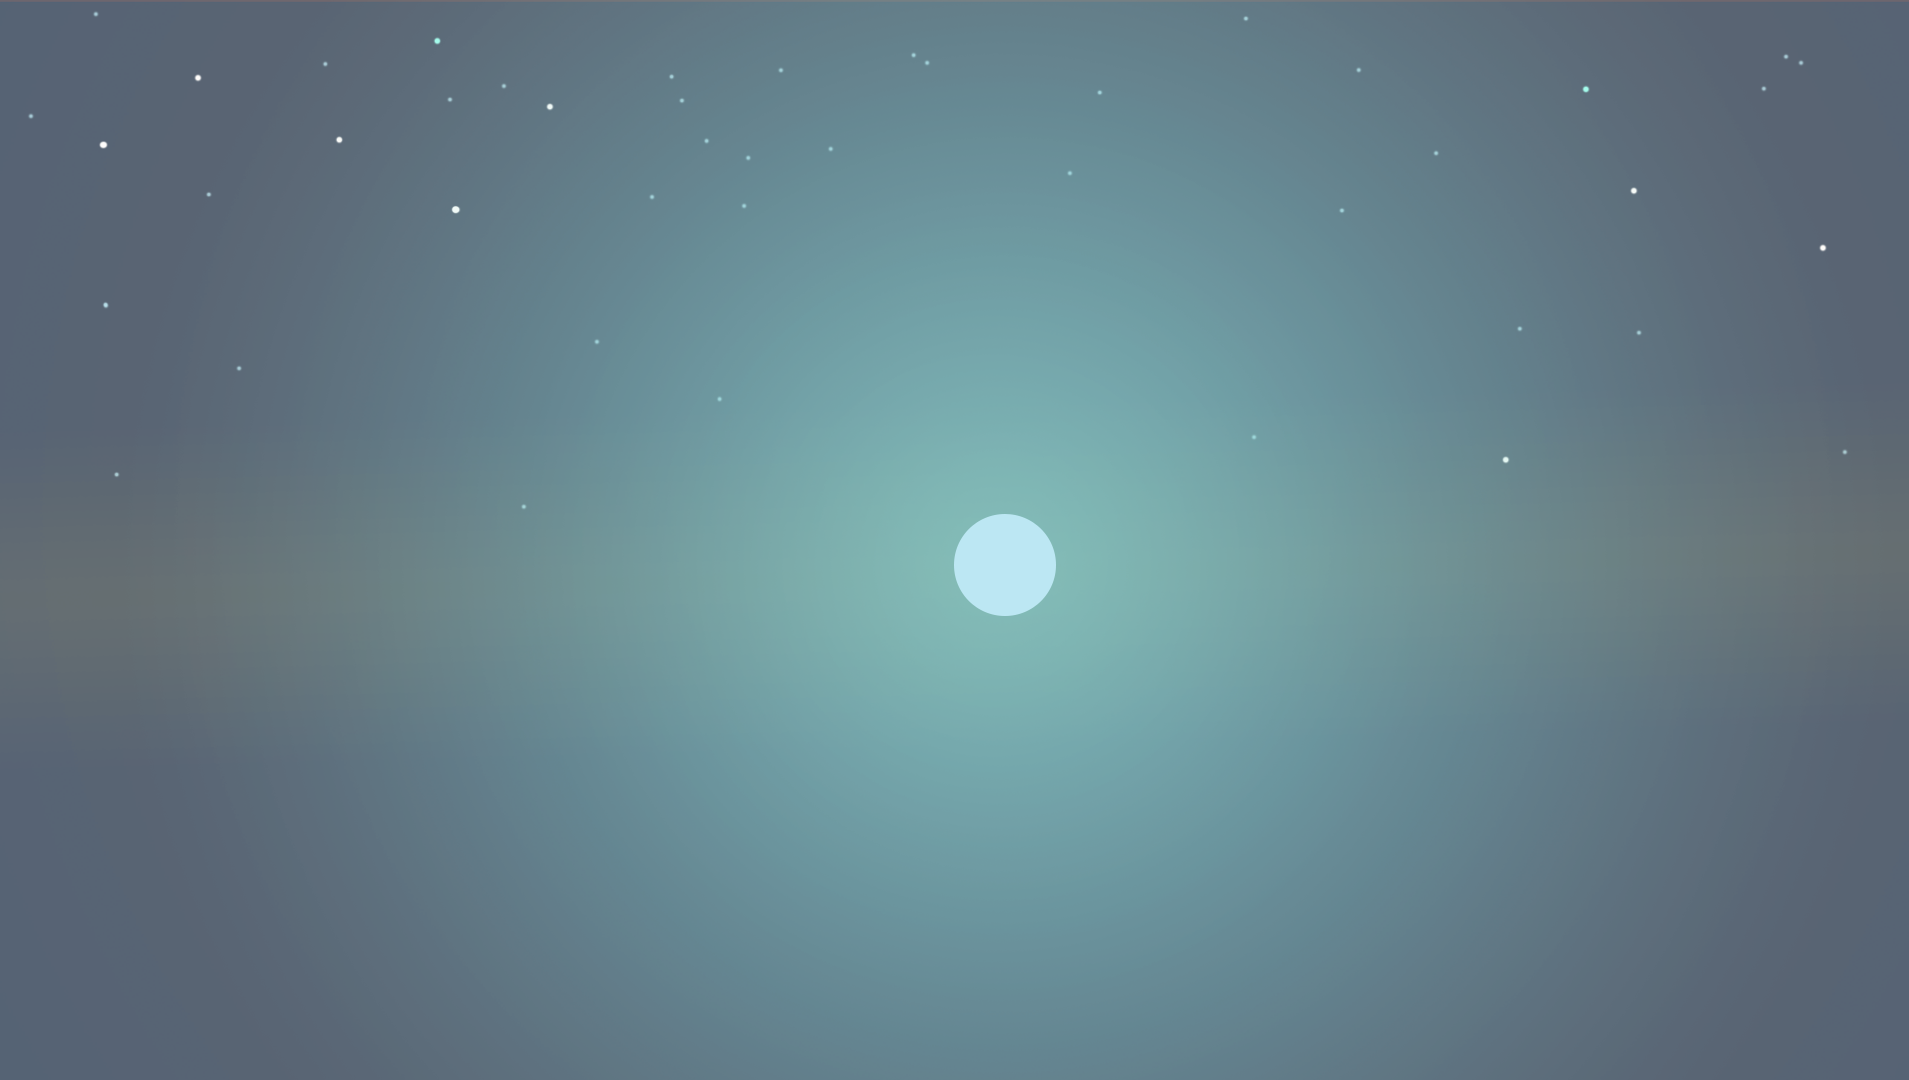
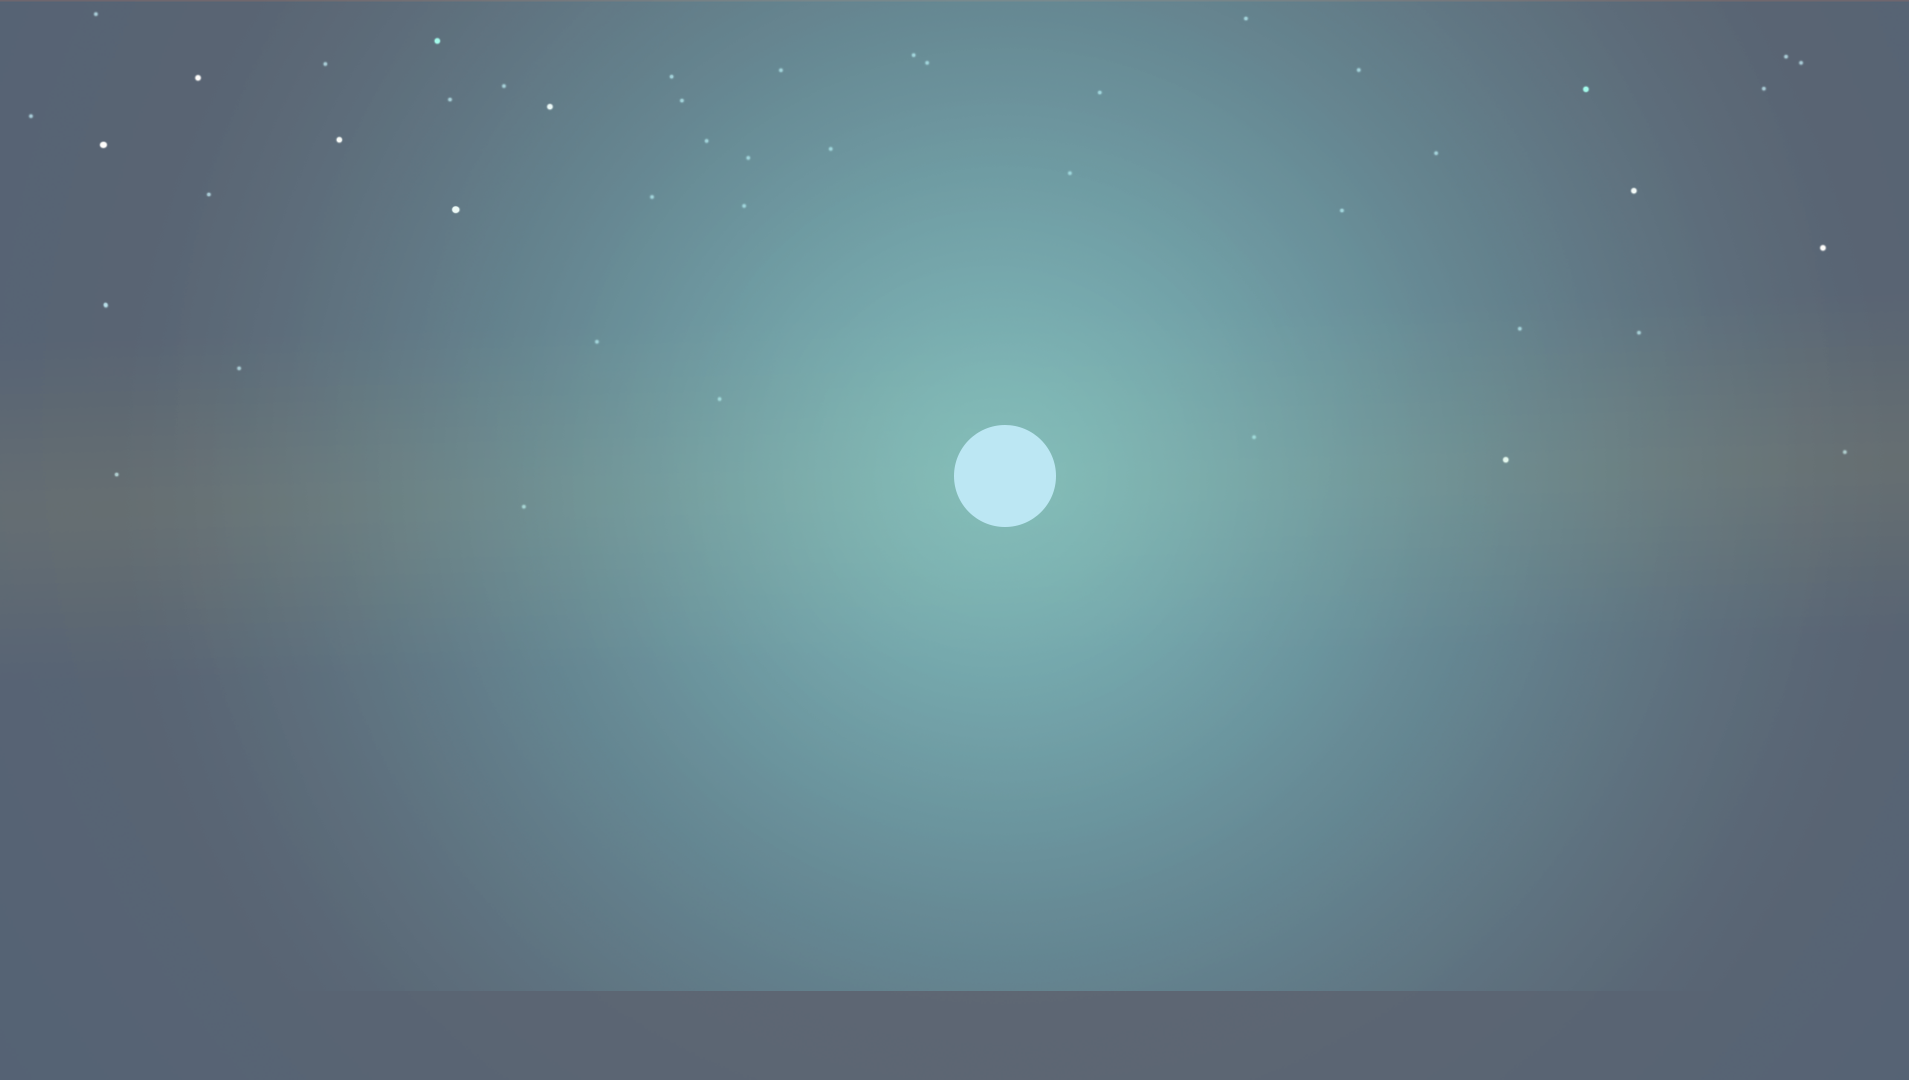
variety of bug fixes; added fonts; html for intro and question

Changed region(s): [[0.34, 0.9167, 0.7108, 1.0], [0.4945, 0.3972, 0.5563, 0.5806]]

diff --git a/santablocker/styles/blocker.css b/santablocker/styles/blocker.css
@@ -1,3 +1,18 @@
+.santa-blocker-body {
+   height: 100%;
+    width: 100%; 
+    background-color: #7daab2;
+    position: absolute;
+    top: 0;
+    left: 0;
+    right: 0;
+    bottom: 0;
+}
+
+.background-base {
+    margin-bottom: -5%;
+}
+
 .blocker-background {
     height: 100%;
     width: 100%;
@@ -13,11 +28,10 @@
 
 .blocker-foreground-3 {
     background-image: url('chrome-extension://__MSG_@@extension_id__/assets/foreground3.png');
-    z-index:3;
-   	background-repeat: repeat-x;
+    z-index:1;
     background-position: 0px 0px;
-    -webkit-animation: animatedBackground 80s linear infinite;
-	animation: animatedBackground 50s linear infinite;
+    -webkit-animation: animatedBackground 90s linear infinite;
+	animation: animatedBackground 90s linear infinite;
 }
 
 .blocker-foreground-2 {
@@ -25,43 +39,81 @@
     z-index:4;
     background-position: 0px 0px;
     -webkit-animation: animatedBackground 60s linear infinite;
-	animation: animatedBackground 30s linear infinite;
+	animation: animatedBackground 60s linear infinite;
 }
 
 .blocker-foreground-1 {
     background-image: url('chrome-extension://__MSG_@@extension_id__/assets/foreground1.png');
     z-index:5;
     background-position: 0px 0px;
-    -webkit-animation: animatedBackground 30s linear infinite;
-	animation: animatedBackground 10s linear infinite;
+    -webkit-animation: animatedBackground 20s linear infinite;
+	animation: animatedBackground 20s linear infinite;
 }
 
 .snow-1 {
     background-image: url('chrome-extension://__MSG_@@extension_id__/assets/snow1.gif');
-    z-index:1;
+    z-index:2;
     opacity: 0.2;
+    -webkit-animation: animatedBackground 30s linear infinite;
+	animation: animatedBackground 30s linear infinite;
 }
 
 .snow-2 {
     background-image: url('chrome-extension://__MSG_@@extension_id__/assets/snow2.gif');
-    z-index:2;
+    z-index:3;
     opacity: 0.6;
 }
 
-.text-container {
-    z-index:6;
+.santa {
+    background-image: url('chrome-extension://__MSG_@@extension_id__/assets/santa-scaled.gif');
+    background-repeat: no-repeat;
+    height: 100%;
+    position: absolute;
+    background-size: 100%;
+    width: 22%;
+    left: 43%;
+    top: -10%;
 }
 
 @-webkit-keyframes animatedBackground{
 	from { background-position: 0 0; }
-	to { background-position: -1287px 0; }
+	to { background-position: -1920px 0; }
+}
+
+@-webkit-keyframes animatedImage {
+	from { background-position: 0 0; }
+	to { background-position: -1920px 0; }
 }
 
 @keyframes animatedBackground {
 	from { background-position: 0 0; }
-	to { background-position: -1287px 0; }
+	to { background-position: -1920px 0; }
 }
+
+/* https://davidwalsh.name/background-animation-css 
+http://stackoverflow.com/questions/8679066/make-image-not-background-img-in-div-repeat
+final option is doubling length
+*/
 
 .hide {
     display: none;
+}
+
+.luckiest-guy {
+   font-family: 'Luckiest Guy', cursive;
+}
+
+.rubik {
+    font-family: 'Rubik', sans-serif;
+}
+
+.text-container {
+    height: 100%;
+    width: 100%; 
+    position: absolute;
+    top: 0;
+    left: 0;
+    right: 0;
+    bottom: 0;
+    z-index: 10;
 }

diff --git a/santablocker/blocker.html b/santablocker/blocker.html
@@ -1,4 +1,12 @@
-<div class="blocker-background"></div>
+<style>
+  @import url('https://fonts.googleapis.com/css?family=Luckiest+Guy|Rubik');
+</style>
+
+<div class="blocker-background background-base">
+  <div class="santa">
+  </div>
+</div>
+
 <div class="blocker-background blocker-foreground-3"></div>
 <div class="blocker-background blocker-foreground-2"></div>
 <div class="blocker-background blocker-foreground-1 cycling"></div>
@@ -7,22 +15,32 @@
 
 <div class="text-container">
 
-  <p class="blocker-question">
-
-  </p>
-
-  <input type="text" class="blocker-text-input" />
-
-  <div class="blocker-answer">
-    answer
+  <div class="text-intro rubik">
+    <div class="intro-1 luckiest-guy">
+      <span>HO</span>
+      <span>HO</span>
+      <span>HOLD ON!</span>
+    </div>
+    <div class="intro-2">
+      THIS SITE CONTAINS </br> CHRISTMAS CONTENT
+    </div>
+    <div class="intro-3">
+      ANSWER THE QUESTION </br> TO ENTER THE GROTTO
+    </div>
   </div>
 
-  <div class="blocker-failure hide">
-    failure
-  </div>
+  <div class="question-container hide">
+    <p class="blocker-question"></p>
 
-  <div class="blocker-retry hide">
-    retry
+    <input type="text" class="blocker-text-input" />
+
+    <div class="blocker-answer">
+      answer
+    </div>
+
+    <div class="blocker-retry hide">
+      retry
+    </div>
   </div>
 
 </div>
